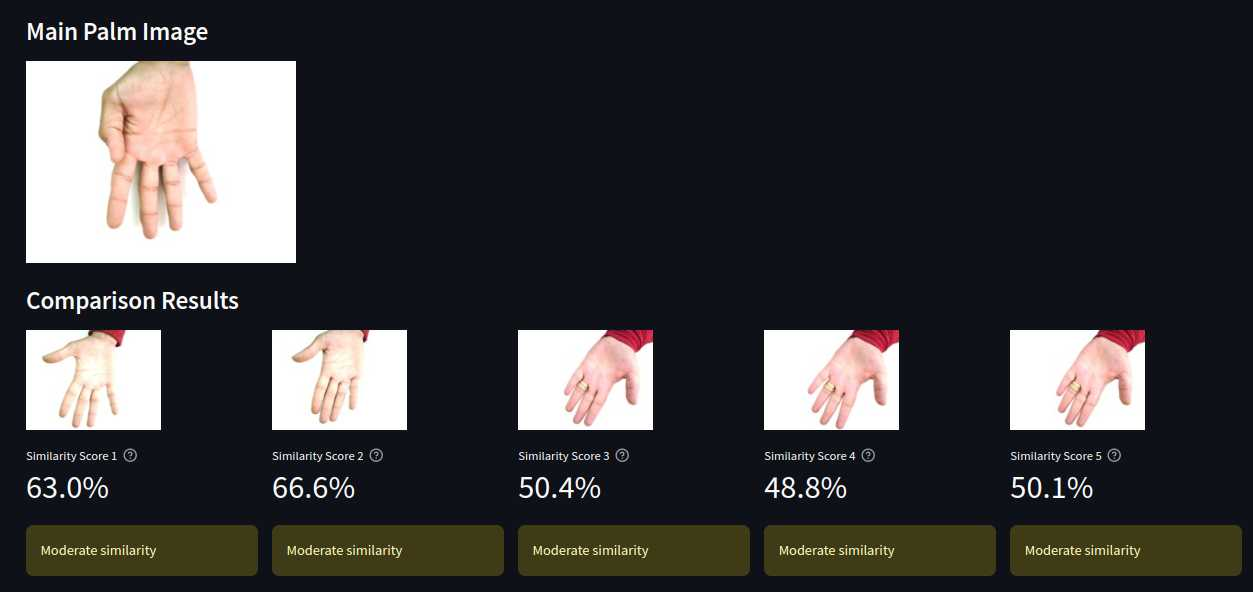
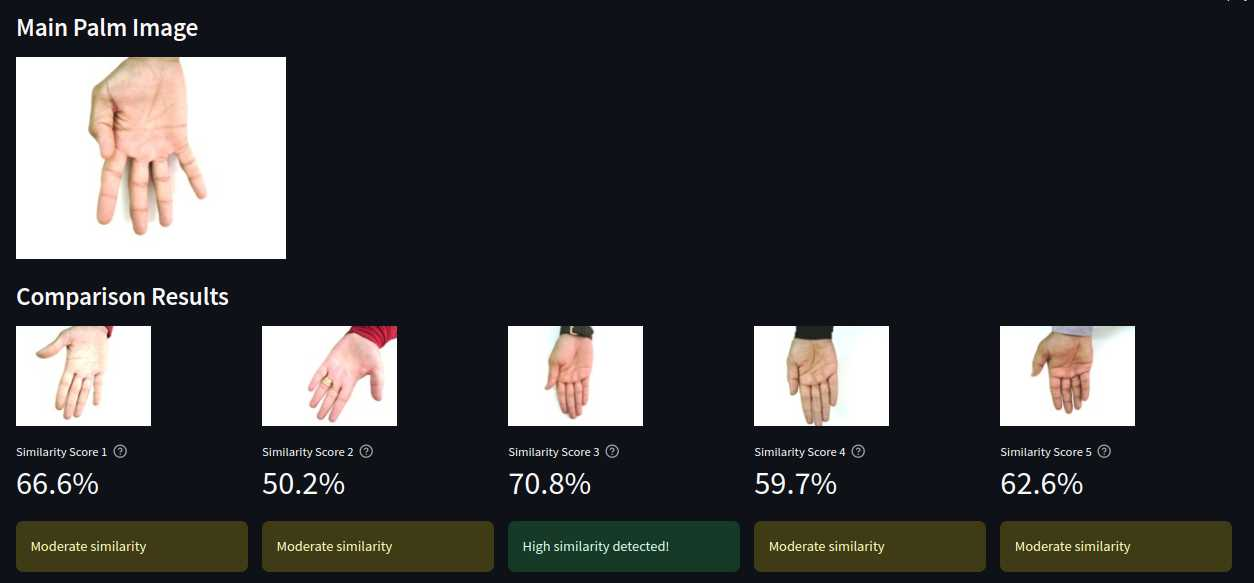
update

Changed region(s): [[0.0, 0.5557, 0.996, 0.988], [0.0, 0.0309, 0.249, 0.4631], [0.0, 0.494, 0.1868, 0.5249]]

diff --git a/image.py b/image.py
@@ -1,0 +1,139 @@
+import streamlit as st
+import cv2
+import numpy as np
+from skimage.metrics import structural_similarity as ssim
+from PIL import Image
+import io
+import os
+from pathlib import Path
+
+
+def preprocess_image(image, size=(224, 224)):
+    """Preprocess image for comparison"""
+    # Convert to grayscale if needed
+    if len(image.shape) == 3:
+        image = cv2.cvtColor(image, cv2.COLOR_BGR2GRAY)
+    
+    # Resize to standard size
+    image = cv2.resize(image, size)
+    
+    # Apply histogram equalization to normalize lighting
+    image = cv2.equalizeHist(image)
+    
+    # Apply Gaussian blur to reduce noise
+    image = cv2.GaussianBlur(image, (5, 5), 0)
+    
+    return image
+
+def calculate_similarity(img1, img2):
+    """Calculate similarity between two images"""
+    # Calculate SSIM between the two images
+    similarity_score = ssim(img1, img2)
+    return similarity_score * 100  # Convert to percentage
+
+def load_and_preprocess_image(uploaded_file):
+    """Load and preprocess uploaded image"""
+    # Read image file
+    image_bytes = uploaded_file.read()
+    nparr = np.frombuffer(image_bytes, np.uint8)
+    image = cv2.imdecode(nparr, cv2.IMREAD_COLOR)
+    
+    # Preprocess image
+    processed_image = preprocess_image(image)
+    return processed_image, image
+
+def main():
+    st.set_page_config(page_title="Palm Image Similarity Analyzer", layout="wide")
+    
+    st.title("Palm Image Similarity Analyzer")
+    st.markdown("""
+    Upload a palm image and compare it with other palm images to find similarity percentages.
+    The comparison uses advanced image processing techniques including structural similarity index.
+    """)
+    
+    # Create directory for uploaded files if it doesn't exist
+    upload_dir = Path("uploaded_palms")
+    upload_dir.mkdir(exist_ok=True)
+    
+    # File uploader for main image
+    main_image_file = st.file_uploader(
+        "Upload your palm image", 
+        type=['jpg', 'jpeg', 'png'],
+        key="main_image"
+    )
+    
+    # File uploader for comparison images
+    st.markdown("### Upload Palm Images for Comparison (up to 5)")
+    comparison_files = st.file_uploader(
+        "Upload comparison images",
+        type=['jpg', 'jpeg', 'png'],
+        accept_multiple_files=True,
+        key="comparison_images"
+    )
+    
+    if len(comparison_files) > 5:
+        st.warning("Please upload a maximum of 5 comparison images.")
+        comparison_files = comparison_files[:5]
+    
+    if main_image_file is not None and len(comparison_files) > 0:
+        # Process main image
+        main_processed, main_original = load_and_preprocess_image(main_image_file)
+        
+        st.markdown("### Main Palm Image")
+        st.image(main_image_file, width=300)
+        
+        st.markdown("### Comparison Results")
+        
+        # Create columns for comparison images
+        cols = st.columns(min(len(comparison_files), 5))
+        
+        # Process and compare each image
+        for idx, (col, comp_file) in enumerate(zip(cols, comparison_files)):
+            with col:
+                # Process comparison image
+                comp_processed, comp_original = load_and_preprocess_image(comp_file)
+                
+                # Calculate similarity
+                similarity = calculate_similarity(main_processed, comp_processed)
+                
+                # Display comparison image and similarity
+                st.image(comp_file, width=150)
+                st.metric(
+                    f"Similarity Score {idx + 1}",
+                    f"{similarity:.1f}%",
+                    help="Based on structural similarity index"
+                )
+                
+                # Feature comparison
+                if similarity > 70:
+                    st.success("High similarity detected!")
+                elif similarity > 40:
+                    st.warning("Moderate similarity")
+                else:
+                    st.error("Low similarity")
+        
+        # Advanced Analysis Section
+        if st.checkbox("Show Advanced Analysis"):
+            st.markdown("### Advanced Analysis")
+            
+            # Create tabs for different analyses
+            tab1, tab2 = st.tabs(["Edge Detection", "Contour Analysis"])
+            
+            with tab1:
+                # Edge detection on main image
+                edges = cv2.Canny(main_processed, 100, 200)
+                st.image(edges, caption="Edge Detection Result", width=300)
+                
+            with tab2:
+                # Find and draw contours
+                contours, _ = cv2.findContours(
+                    cv2.threshold(main_processed, 127, 255, cv2.THRESH_BINARY)[1],
+                    cv2.RETR_EXTERNAL,
+                    cv2.CHAIN_APPROX_SIMPLE
+                )
+                contour_img = np.zeros_like(main_processed)
+                cv2.drawContours(contour_img, contours, -1, (255, 255, 255), 2)
+                st.image(contour_img, caption="Contour Analysis", width=300)
+
+if __name__ == "__main__":
+    main()

diff --git a/README.md b/README.md
@@ -20,6 +20,9 @@ https://app.xamun.ai/walk-through-preview/663/1566
 
 Google Colab: https://colab.research.google.com/drive/1xq5qCDR391kVy9d1xofs0YQzPQVuYNw4?usp=sharing
 
+
+Javascript Developer Duties: https://fullscale.io/blog/roles-and-responsibilities-of-a-javascript-developer/
+
 Applicant 1: https://medium.com/@jojo_38618/a-personal-essay-on-my-journey-into-tech-518fcb8760d6
 
 ![applicant1.png](applicant1.png)
@@ -71,7 +74,8 @@ Google Colab: https://colab.research.google.com/drive/1X6jxnzczZOrNn3o4VhrCncOQI
   - criminal_palm.jpg
   - civilian_palm.jpg
 
-3. Do the same on Streamlit
+
+3. Do the same on Streamlit (image.py)
 
 Applicant's palm compared to a set of known palms:
 
@@ -80,7 +84,7 @@ Applicant's palm compared to a set of known palms:
 
 > start time: 10am Oct 24, 2024
 
-> end time: Oct 25, 2022 (x hours)
+> end time: 8am Oct 25, 2022
 
 
 
@@ -88,6 +92,9 @@ Applicant's palm compared to a set of known palms:
 
 - Limited samples causes overfitting
 - Palm images too varied
+- Lines on palm are not clear
+- Xamun.ai is very difficult to use
+
 
 ### Workaround
 
